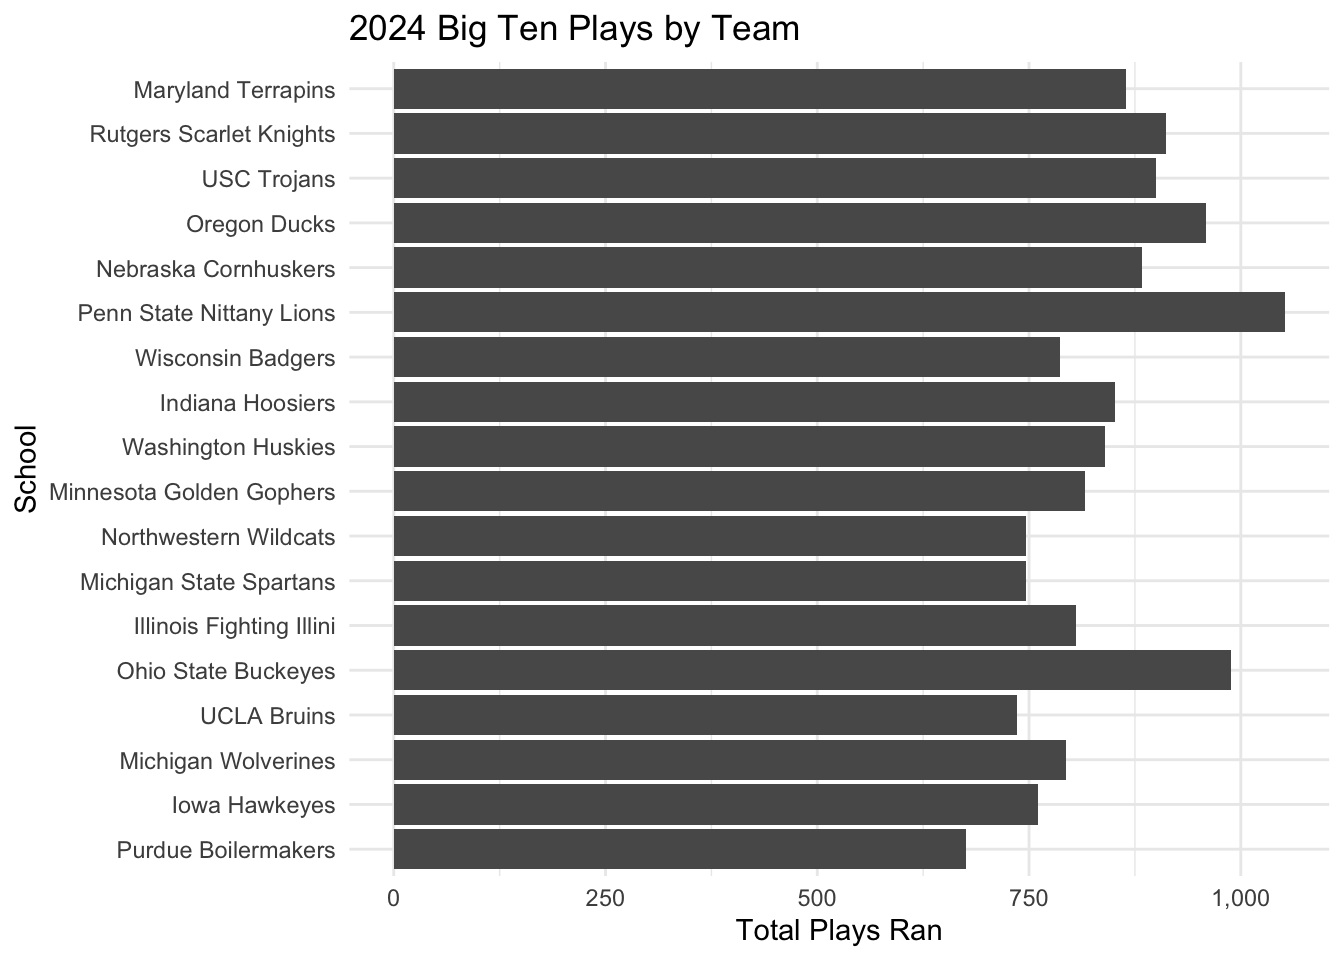
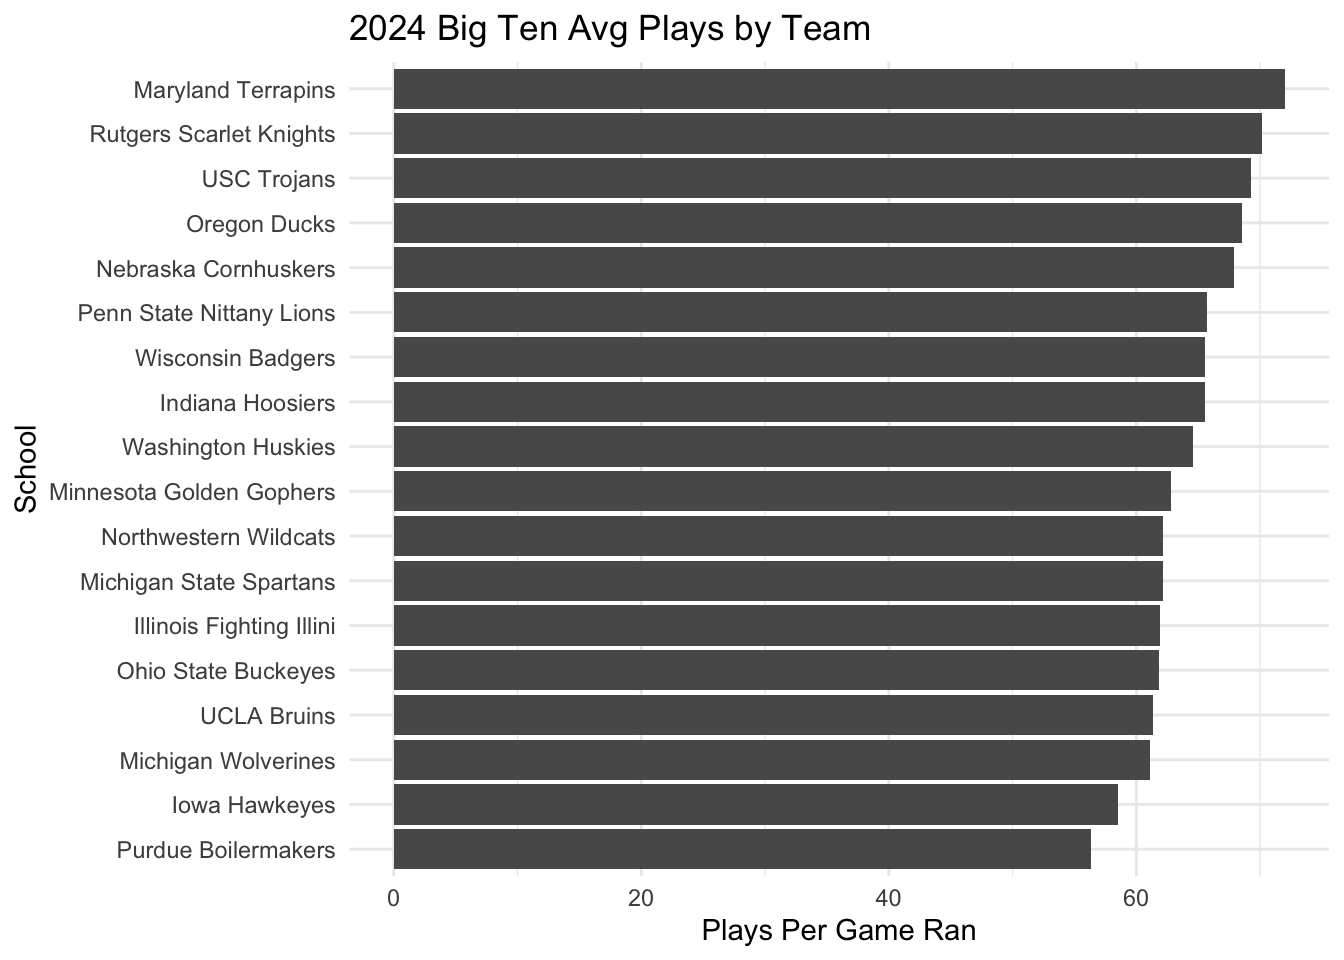
final attempt

diff --git a/docs/posts/Yards-Per-Game-Post/Index.html b/docs/posts/Yards-Per-Game-Post/Index.html
@@ -8,7 +8,7 @@
 
 <meta name="author" content="Max Schaeffer">
 
-<title>Illinois Football’s Offense is Spending a lot More Time on the Field – Max Schaeffer - Sports Data</title>
+<title>Does Tempo Matter in The Big Ten? – Max Schaeffer - Sports Data</title>
 <style>
 code{white-space: pre-wrap;}
 span.smallcaps{font-variant: small-caps;}
@@ -148,7 +148,7 @@ pre > code.sourceCode > span > a:first-child::before { text-decoration: underlin
 <header id="title-block-header" class="quarto-title-block default page-columns page-full">
   <div class="quarto-title-banner page-columns page-full">
     <div class="quarto-title column-body">
-      <h1 class="title">Illinois Football’s Offense is Spending a lot More Time on the Field</h1>
+      <h1 class="title">Does Tempo Matter in The Big Ten?</h1>
                       </div>
   </div>
     
@@ -182,101 +182,46 @@ pre > code.sourceCode > span > a:first-child::before { text-decoration: underlin
 <div class="cell">
 <details class="code-fold">
 <summary>Code</summary>
-<div class="sourceCode cell-code" id="cb1"><pre class="sourceCode r code-with-copy"><code class="sourceCode r"><span id="cb1-1"><a href="#cb1-1" aria-hidden="true" tabindex="-1"></a><span class="fu">library</span>(tidyverse)</span></code><button title="Copy to Clipboard" class="code-copy-button"><i class="bi"></i></button></pre></div>
+<div class="sourceCode cell-code" id="cb1"><pre class="sourceCode r code-with-copy"><code class="sourceCode r"><span id="cb1-1"><a href="#cb1-1" aria-hidden="true" tabindex="-1"></a><span class="fu">suppressMessages</span>(<span class="fu">library</span>(tidyverse))</span>
+<span id="cb1-2"><a href="#cb1-2" aria-hidden="true" tabindex="-1"></a><span class="fu">suppressMessages</span>(<span class="fu">library</span>(scales))</span></code><button title="Copy to Clipboard" class="code-copy-button"><i class="bi"></i></button></pre></div>
 </details>
-<div class="cell-output cell-output-stderr">
-<pre><code>── Attaching core tidyverse packages ──────────────────────── tidyverse 2.0.0 ──
-✔ dplyr     1.1.4     ✔ readr     2.1.5
-✔ forcats   1.0.0     ✔ stringr   1.5.1
-✔ ggplot2   3.5.1     ✔ tibble    3.2.1
-✔ lubridate 1.9.4     ✔ tidyr     1.3.1
-✔ purrr     1.0.2     
-── Conflicts ────────────────────────────────────────── tidyverse_conflicts() ──
-✖ dplyr::filter() masks stats::filter()
-✖ dplyr::lag()    masks stats::lag()
-ℹ Use the conflicted package (&lt;http://conflicted.r-lib.org/&gt;) to force all conflicts to become errors</code></pre>
-</div>
-<details class="code-fold">
-<summary>Code</summary>
-<div class="sourceCode cell-code" id="cb3"><pre class="sourceCode r code-with-copy"><code class="sourceCode r"><span id="cb3-1"><a href="#cb3-1" aria-hidden="true" tabindex="-1"></a><span class="fu">library</span>(scales)</span></code><button title="Copy to Clipboard" class="code-copy-button"><i class="bi"></i></button></pre></div>
-</details>
-<div class="cell-output cell-output-stderr">
-<pre><code>
-Attaching package: 'scales'
-
-The following object is masked from 'package:purrr':
-
-    discard
-
-The following object is masked from 'package:readr':
-
-    col_factor</code></pre>
-</div>
 </div>
 <p>Then, I’ll load in both libraries.</p>
 <div class="cell">
 <details class="code-fold">
 <summary>Code</summary>
-<div class="sourceCode cell-code" id="cb5"><pre class="sourceCode r code-with-copy"><code class="sourceCode r"><span id="cb5-1"><a href="#cb5-1" aria-hidden="true" tabindex="-1"></a>twentyfour_plays <span class="ot">&lt;-</span> <span class="fu">read_csv</span>(<span class="st">"https://dwillis.github.io/sports-data-files/footballlogs24.csv"</span>)</span></code><button title="Copy to Clipboard" class="code-copy-button"><i class="bi"></i></button></pre></div>
+<div class="sourceCode cell-code" id="cb2"><pre class="sourceCode r code-with-copy"><code class="sourceCode r"><span id="cb2-1"><a href="#cb2-1" aria-hidden="true" tabindex="-1"></a><span class="fu">suppressMessages</span>(twentyfour_plays <span class="ot">&lt;-</span> <span class="fu">read_csv</span>(<span class="st">"https://dwillis.github.io/sports-data-files/footballlogs24.csv"</span>))</span>
+<span id="cb2-2"><a href="#cb2-2" aria-hidden="true" tabindex="-1"></a><span class="fu">suppressMessages</span>(twentyfive_plays <span class="ot">&lt;-</span> <span class="fu">read_csv</span>(<span class="st">"https://thescoop.org/sports-data-files/footballlogs25.csv"</span>))</span></code><button title="Copy to Clipboard" class="code-copy-button"><i class="bi"></i></button></pre></div>
 </details>
-<div class="cell-output cell-output-stderr">
-<pre><code>Rows: 1717 Columns: 79
-── Column specification ────────────────────────────────────────────────────────
-Delimiter: ","
-chr  (11): Location, Opponent, Result, OT, Bowl.x, TeamURL, Outcome, Bowl.y,...
-dbl  (64): Rk, Gtm, Points, PointsOpp, PassCmp, PassAtt, PassPct, PassYds, P...
-lgl   (3): Score, TeamScore, OpponentScore
-date  (1): Date
-
-ℹ Use `spec()` to retrieve the full column specification for this data.
-ℹ Specify the column types or set `show_col_types = FALSE` to quiet this message.</code></pre>
-</div>
-<details class="code-fold">
-<summary>Code</summary>
-<div class="sourceCode cell-code" id="cb7"><pre class="sourceCode r code-with-copy"><code class="sourceCode r"><span id="cb7-1"><a href="#cb7-1" aria-hidden="true" tabindex="-1"></a>twentyfive_plays <span class="ot">&lt;-</span> <span class="fu">read_csv</span>(<span class="st">"https://thescoop.org/sports-data-files/footballlogs25.csv"</span>)</span></code><button title="Copy to Clipboard" class="code-copy-button"><i class="bi"></i></button></pre></div>
-</details>
-<div class="cell-output cell-output-stderr">
-<pre><code>Rows: 711 Columns: 77
-── Column specification ────────────────────────────────────────────────────────
-Delimiter: ","
-chr   (9): Location, Opponent, Result, OT, TeamURL, Outcome, Team, Conferenc...
-dbl  (64): Rk, Gtm, Points, PointsOpp, PassCmp, PassAtt, PassPct, PassYds, P...
-lgl   (3): Score, TeamScore, OpponentScore
-date  (1): Date
-
-ℹ Use `spec()` to retrieve the full column specification for this data.
-ℹ Specify the column types or set `show_col_types = FALSE` to quiet this message.</code></pre>
-</div>
 </div>
 <p>Then I had to isolate our Big Ten teams, and add a column that has the total plays for each team in the conference.</p>
 <div class="cell">
 <details class="code-fold">
 <summary>Code</summary>
-<div class="sourceCode cell-code" id="cb9"><pre class="sourceCode r code-with-copy"><code class="sourceCode r"><span id="cb9-1"><a href="#cb9-1" aria-hidden="true" tabindex="-1"></a>twentyfour_btn <span class="ot">&lt;-</span> twentyfour_plays <span class="sc">|&gt;</span> <span class="fu">group_by</span>(TeamFull) <span class="sc">|&gt;</span> <span class="fu">filter</span>(Conference <span class="sc">==</span> <span class="st">"Big Ten Conference"</span>) <span class="sc">|&gt;</span> <span class="fu">mutate</span>(<span class="at">allplays =</span> <span class="fu">sum</span>(TotalPlays))</span>
-<span id="cb9-2"><a href="#cb9-2" aria-hidden="true" tabindex="-1"></a></span>
-<span id="cb9-3"><a href="#cb9-3" aria-hidden="true" tabindex="-1"></a>twentyfive_btn <span class="ot">&lt;-</span> twentyfive_plays <span class="sc">|&gt;</span> <span class="fu">group_by</span>(TeamFull) <span class="sc">|&gt;</span> <span class="fu">filter</span> (Conference <span class="sc">==</span> <span class="st">"Big Ten Conference"</span>) <span class="sc">|&gt;</span><span class="fu">mutate</span>(<span class="at">allplays =</span><span class="fu">sum</span>(TotalPlays))  </span></code><button title="Copy to Clipboard" class="code-copy-button"><i class="bi"></i></button></pre></div>
+<div class="sourceCode cell-code" id="cb3"><pre class="sourceCode r code-with-copy"><code class="sourceCode r"><span id="cb3-1"><a href="#cb3-1" aria-hidden="true" tabindex="-1"></a>twentyfour_btn <span class="ot">&lt;-</span> twentyfour_plays <span class="sc">|&gt;</span> <span class="fu">filter</span>(Conference <span class="sc">==</span> <span class="st">"Big Ten Conference"</span>) <span class="sc">|&gt;</span>  <span class="fu">group_by</span>(TeamFull) <span class="sc">|&gt;</span> <span class="fu">summarise</span>(<span class="at">total_plays =</span> <span class="fu">sum</span>(TotalPlays), <span class="at">avg_plays =</span> <span class="fu">mean</span>(TotalPlays))</span>
+<span id="cb3-2"><a href="#cb3-2" aria-hidden="true" tabindex="-1"></a>  </span>
+<span id="cb3-3"><a href="#cb3-3" aria-hidden="true" tabindex="-1"></a>twentyfive_btn <span class="ot">&lt;-</span> twentyfive_plays <span class="sc">|&gt;</span> <span class="fu">filter</span>(Conference <span class="sc">==</span> <span class="st">"Big Ten Conference"</span>) <span class="sc">|&gt;</span>  <span class="fu">group_by</span>(TeamFull) <span class="sc">|&gt;</span> <span class="fu">summarise</span>(<span class="at">total_plays =</span> <span class="fu">sum</span>(TotalPlays), <span class="at">avg_plays =</span> <span class="fu">mean</span>(TotalPlays))</span></code><button title="Copy to Clipboard" class="code-copy-button"><i class="bi"></i></button></pre></div>
 </details>
 </div>
-<p>Then I used ggplot to create my first bar graph of the 2025 data, and give it the proper labels.</p>
 <div class="cell">
 <details class="code-fold">
 <summary>Code</summary>
-<div class="sourceCode cell-code" id="cb10"><pre class="sourceCode r code-with-copy"><code class="sourceCode r"><span id="cb10-1"><a href="#cb10-1" aria-hidden="true" tabindex="-1"></a><span class="fu">ggplot</span>() <span class="sc">+</span> </span>
-<span id="cb10-2"><a href="#cb10-2" aria-hidden="true" tabindex="-1"></a>  <span class="fu">geom_bar</span>(</span>
-<span id="cb10-3"><a href="#cb10-3" aria-hidden="true" tabindex="-1"></a>    <span class="at">data=</span>twentyfour_btn, </span>
-<span id="cb10-4"><a href="#cb10-4" aria-hidden="true" tabindex="-1"></a>    <span class="fu">aes</span>( </span>
-<span id="cb10-5"><a href="#cb10-5" aria-hidden="true" tabindex="-1"></a>      <span class="at">x=</span><span class="fu">reorder</span> (TeamFull, TotalPlays), </span>
-<span id="cb10-6"><a href="#cb10-6" aria-hidden="true" tabindex="-1"></a>        <span class="at">weight=</span>TotalPlays</span>
-<span id="cb10-7"><a href="#cb10-7" aria-hidden="true" tabindex="-1"></a>  )</span>
-<span id="cb10-8"><a href="#cb10-8" aria-hidden="true" tabindex="-1"></a>  ) <span class="sc">+</span></span>
-<span id="cb10-9"><a href="#cb10-9" aria-hidden="true" tabindex="-1"></a><span class="fu">scale_y_continuous</span>(<span class="at">labels=</span>comma) <span class="sc">+</span> </span>
-<span id="cb10-10"><a href="#cb10-10" aria-hidden="true" tabindex="-1"></a>  <span class="fu">labs</span>(</span>
-<span id="cb10-11"><a href="#cb10-11" aria-hidden="true" tabindex="-1"></a>    <span class="at">title=</span><span class="st">"2024 Big Ten Plays by Team"</span>, </span>
-<span id="cb10-12"><a href="#cb10-12" aria-hidden="true" tabindex="-1"></a>    <span class="at">x=</span><span class="st">"School"</span>, </span>
-<span id="cb10-13"><a href="#cb10-13" aria-hidden="true" tabindex="-1"></a>    <span class="at">y=</span><span class="st">"Total Plays Ran"</span></span>
-<span id="cb10-14"><a href="#cb10-14" aria-hidden="true" tabindex="-1"></a>) <span class="sc">+</span></span>
-<span id="cb10-15"><a href="#cb10-15" aria-hidden="true" tabindex="-1"></a>    <span class="fu">theme_minimal</span>() <span class="sc">+</span> </span>
-<span id="cb10-16"><a href="#cb10-16" aria-hidden="true" tabindex="-1"></a>  <span class="fu">coord_flip</span>()</span></code><button title="Copy to Clipboard" class="code-copy-button"><i class="bi"></i></button></pre></div>
+<div class="sourceCode cell-code" id="cb4"><pre class="sourceCode r code-with-copy"><code class="sourceCode r"><span id="cb4-1"><a href="#cb4-1" aria-hidden="true" tabindex="-1"></a><span class="fu">ggplot</span>() <span class="sc">+</span> </span>
+<span id="cb4-2"><a href="#cb4-2" aria-hidden="true" tabindex="-1"></a>  <span class="fu">geom_bar</span>(</span>
+<span id="cb4-3"><a href="#cb4-3" aria-hidden="true" tabindex="-1"></a>    <span class="at">data=</span>twentyfour_btn, </span>
+<span id="cb4-4"><a href="#cb4-4" aria-hidden="true" tabindex="-1"></a>    <span class="fu">aes</span>( </span>
+<span id="cb4-5"><a href="#cb4-5" aria-hidden="true" tabindex="-1"></a>      <span class="at">x=</span><span class="fu">reorder</span> (TeamFull, avg_plays), </span>
+<span id="cb4-6"><a href="#cb4-6" aria-hidden="true" tabindex="-1"></a>        <span class="at">weight=</span>avg_plays</span>
+<span id="cb4-7"><a href="#cb4-7" aria-hidden="true" tabindex="-1"></a>  )</span>
+<span id="cb4-8"><a href="#cb4-8" aria-hidden="true" tabindex="-1"></a>  ) <span class="sc">+</span></span>
+<span id="cb4-9"><a href="#cb4-9" aria-hidden="true" tabindex="-1"></a><span class="fu">scale_y_continuous</span>(<span class="at">labels=</span>comma) <span class="sc">+</span> </span>
+<span id="cb4-10"><a href="#cb4-10" aria-hidden="true" tabindex="-1"></a>  <span class="fu">labs</span>(</span>
+<span id="cb4-11"><a href="#cb4-11" aria-hidden="true" tabindex="-1"></a>    <span class="at">title=</span><span class="st">"2024 Big Ten Avg Plays by Team"</span>, </span>
+<span id="cb4-12"><a href="#cb4-12" aria-hidden="true" tabindex="-1"></a>    <span class="at">x=</span><span class="st">"School"</span>, </span>
+<span id="cb4-13"><a href="#cb4-13" aria-hidden="true" tabindex="-1"></a>    <span class="at">y=</span><span class="st">"Plays Per Game Ran"</span></span>
+<span id="cb4-14"><a href="#cb4-14" aria-hidden="true" tabindex="-1"></a>) <span class="sc">+</span></span>
+<span id="cb4-15"><a href="#cb4-15" aria-hidden="true" tabindex="-1"></a>    <span class="fu">theme_minimal</span>() <span class="sc">+</span> </span>
+<span id="cb4-16"><a href="#cb4-16" aria-hidden="true" tabindex="-1"></a>  <span class="fu">coord_flip</span>()</span></code><button title="Copy to Clipboard" class="code-copy-button"><i class="bi"></i></button></pre></div>
 </details>
 <div class="cell-output-display">
 <div>
@@ -290,22 +235,22 @@ date  (1): Date
 <div class="cell">
 <details class="code-fold">
 <summary>Code</summary>
-<div class="sourceCode cell-code" id="cb11"><pre class="sourceCode r code-with-copy"><code class="sourceCode r"><span id="cb11-1"><a href="#cb11-1" aria-hidden="true" tabindex="-1"></a><span class="fu">ggplot</span>() <span class="sc">+</span> </span>
-<span id="cb11-2"><a href="#cb11-2" aria-hidden="true" tabindex="-1"></a>  <span class="fu">geom_bar</span>(</span>
-<span id="cb11-3"><a href="#cb11-3" aria-hidden="true" tabindex="-1"></a>    <span class="at">data=</span>twentyfive_btn, </span>
-<span id="cb11-4"><a href="#cb11-4" aria-hidden="true" tabindex="-1"></a>    <span class="fu">aes</span>( </span>
-<span id="cb11-5"><a href="#cb11-5" aria-hidden="true" tabindex="-1"></a>      <span class="at">x=</span><span class="fu">reorder</span> (TeamFull, TotalPlays), </span>
-<span id="cb11-6"><a href="#cb11-6" aria-hidden="true" tabindex="-1"></a>        <span class="at">weight=</span>TotalPlays</span>
-<span id="cb11-7"><a href="#cb11-7" aria-hidden="true" tabindex="-1"></a>  )</span>
-<span id="cb11-8"><a href="#cb11-8" aria-hidden="true" tabindex="-1"></a>  ) <span class="sc">+</span></span>
-<span id="cb11-9"><a href="#cb11-9" aria-hidden="true" tabindex="-1"></a><span class="fu">scale_y_continuous</span>(<span class="at">labels=</span>comma) <span class="sc">+</span> </span>
-<span id="cb11-10"><a href="#cb11-10" aria-hidden="true" tabindex="-1"></a>  <span class="fu">labs</span>(</span>
-<span id="cb11-11"><a href="#cb11-11" aria-hidden="true" tabindex="-1"></a>    <span class="at">title=</span><span class="st">"2025 Big Ten Plays by Team"</span>, </span>
-<span id="cb11-12"><a href="#cb11-12" aria-hidden="true" tabindex="-1"></a>    <span class="at">x=</span><span class="st">"School"</span>, </span>
-<span id="cb11-13"><a href="#cb11-13" aria-hidden="true" tabindex="-1"></a>    <span class="at">y=</span><span class="st">"Total Plays Ran"</span></span>
-<span id="cb11-14"><a href="#cb11-14" aria-hidden="true" tabindex="-1"></a>) <span class="sc">+</span></span>
-<span id="cb11-15"><a href="#cb11-15" aria-hidden="true" tabindex="-1"></a>    <span class="fu">theme_minimal</span>() <span class="sc">+</span> </span>
-<span id="cb11-16"><a href="#cb11-16" aria-hidden="true" tabindex="-1"></a>  <span class="fu">coord_flip</span>()</span></code><button title="Copy to Clipboard" class="code-copy-button"><i class="bi"></i></button></pre></div>
+<div class="sourceCode cell-code" id="cb5"><pre class="sourceCode r code-with-copy"><code class="sourceCode r"><span id="cb5-1"><a href="#cb5-1" aria-hidden="true" tabindex="-1"></a><span class="fu">ggplot</span>() <span class="sc">+</span> </span>
+<span id="cb5-2"><a href="#cb5-2" aria-hidden="true" tabindex="-1"></a>  <span class="fu">geom_bar</span>(</span>
+<span id="cb5-3"><a href="#cb5-3" aria-hidden="true" tabindex="-1"></a>    <span class="at">data=</span>twentyfive_btn, </span>
+<span id="cb5-4"><a href="#cb5-4" aria-hidden="true" tabindex="-1"></a>    <span class="fu">aes</span>( </span>
+<span id="cb5-5"><a href="#cb5-5" aria-hidden="true" tabindex="-1"></a>      <span class="at">x=</span><span class="fu">reorder</span> (TeamFull, avg_plays), </span>
+<span id="cb5-6"><a href="#cb5-6" aria-hidden="true" tabindex="-1"></a>        <span class="at">weight=</span>avg_plays</span>
+<span id="cb5-7"><a href="#cb5-7" aria-hidden="true" tabindex="-1"></a>  )</span>
+<span id="cb5-8"><a href="#cb5-8" aria-hidden="true" tabindex="-1"></a>  ) <span class="sc">+</span></span>
+<span id="cb5-9"><a href="#cb5-9" aria-hidden="true" tabindex="-1"></a><span class="fu">scale_y_continuous</span>(<span class="at">labels=</span>comma) <span class="sc">+</span> </span>
+<span id="cb5-10"><a href="#cb5-10" aria-hidden="true" tabindex="-1"></a>  <span class="fu">labs</span>(</span>
+<span id="cb5-11"><a href="#cb5-11" aria-hidden="true" tabindex="-1"></a>    <span class="at">title=</span><span class="st">"2025 Big Ten Avg Plays by Team"</span>, </span>
+<span id="cb5-12"><a href="#cb5-12" aria-hidden="true" tabindex="-1"></a>    <span class="at">x=</span><span class="st">"School"</span>, </span>
+<span id="cb5-13"><a href="#cb5-13" aria-hidden="true" tabindex="-1"></a>    <span class="at">y=</span><span class="st">"Plays Per Game Ran"</span></span>
+<span id="cb5-14"><a href="#cb5-14" aria-hidden="true" tabindex="-1"></a>) <span class="sc">+</span></span>
+<span id="cb5-15"><a href="#cb5-15" aria-hidden="true" tabindex="-1"></a>    <span class="fu">theme_minimal</span>() <span class="sc">+</span> </span>
+<span id="cb5-16"><a href="#cb5-16" aria-hidden="true" tabindex="-1"></a>  <span class="fu">coord_flip</span>()</span></code><button title="Copy to Clipboard" class="code-copy-button"><i class="bi"></i></button></pre></div>
 </details>
 <div class="cell-output-display">
 <div>
@@ -315,7 +260,7 @@ date  (1): Date
 </div>
 </div>
 </div>
-<p>The biggest problem I ran into in this data examination is that I could not figure out how to get a plays per game column which would have made for a better comparison point between the years. From what I do have though, the biggest takeaway is how far Illinois is ahead of their peers in total plays, and how relatively far back Ohio State is. I think this makes it clear that the number of plays your running is not predictive of how good of a team you are given how good Ohio State has been this year.</p>
+<p>There are many reasons why a Big Ten offense would have a high tempo. In the case of the 2025 Indiana Hoosiers or 2024 Oregon Ducks, maybe your an effective uptempo offense who is using no-huddle to get up and down the field on opponents. Or in the case of the 2024 and 2025 leaders in plays per game, maybe your a poor football team who’s offense is constantly stuck on the field. These charts dmeonstrate that total plays are not an effective predictor of team success, although they can be an interesting indicator of your team’s style and system.</p>
 
 
 

diff --git a/docs/index.html b/docs/index.html
@@ -205,7 +205,7 @@ window.Quarto = {
 
 <div class="quarto-listing quarto-listing-container-default" id="listing-listing">
 <div class="list quarto-listing-default">
-<div class="quarto-post image-right" data-index="0" data-listing-file-modified-sort="1760635095898" data-listing-reading-time-sort="2" data-listing-word-count-sort="340">
+<div class="quarto-post image-right" data-index="0" data-listing-file-modified-sort="1760637622555" data-listing-reading-time-sort="2" data-listing-word-count-sort="336">
 <div class="thumbnail">
 <p><a href="./posts/Yards-Per-Game-Post/index.html" class="no-external"></a></p><a href="./posts/Yards-Per-Game-Post/index.html" class="no-external">
 <p class="card-img-top"><img src="posts/Yards-Per-Game-Post/index_files/figure-html/unnamed-chunk-4-1.png"  class="thumbnail-image card-img"/></p>
@@ -213,7 +213,7 @@ window.Quarto = {
 </div>
 <div class="body">
 <h3 class="no-anchor listing-title">
-<a href="./posts/Yards-Per-Game-Post/index.html" class="no-external">Illinois Football’s Offense is Spending a lot More Time on the Field</a>
+<a href="./posts/Yards-Per-Game-Post/index.html" class="no-external">Does Tempo Matter in The Big Ten?</a>
 </h3>
 <div class="listing-subtitle">
 <a href="./posts/Yards-Per-Game-Post/index.html" class="no-external"></a>
